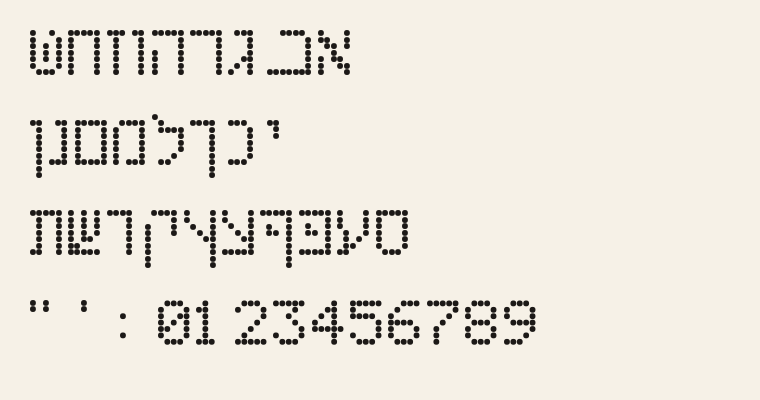
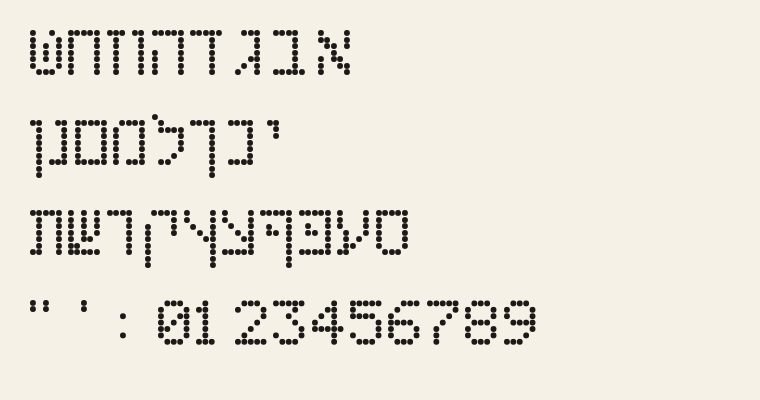
Put bet's heel on the side it belongs on
Measuring ב and כ in a text face settles what I had been guessing at: the
base of ב runs past the stem to the right by about a sixth of its width,
while כ's base stops flush with the stem. Both my earlier attempts widened
the base to the left instead, which is not the distinction a reader uses —
hence a ב that still read as a כ.

ד and ר carried the same mistake, separated by a left extension rather than
by the heel on ד's top bar; they now follow the same rule as ב and כ.

Claude-Session: https://claude.ai/code/session_012BU4uwjtfYtEZVJrZGMnXV

Changed region(s): [[0.2724, 0.06, 0.4237, 0.21], [0.3026, 0.39, 0.3329, 0.42], [0.3026, 0.3, 0.3329, 0.33]]

diff --git a/tools/font/build_font.py b/tools/font/build_font.py
@@ -27,13 +27,13 @@ g(0x05D0, """
 #..##
 #...#""")            # א
 g(0x05D1, """
-...####.
-.......#
-.......#
-.......#
-.......#
-.......#
-########""")         # ב — the base runs three dots past the top bar; that foot separates it from כ
+.####.
+....#.
+....#.
+....#.
+....#.
+....#.
+.#####""")           # ב — the base runs past the stem to the right; that heel separates it from כ
 g(0x05D2, """
 .###.
 ...#.
@@ -43,13 +43,13 @@ g(0x05D2, """
 .#.#.
 #..#.""")            # ג
 g(0x05D3, """
-#####
-....#
-....#
-....#
-....#
-....#
-....#""")            # ד
+.#####
+....#.
+....#.
+....#.
+....#.
+....#.
+....#.""")           # ד — same heel as ב, on the top bar; ר below is the flush version
 g(0x05D4, """
 #####
 ....#
@@ -109,13 +109,13 @@ g(0x05DA, """
 ....#
 ....#""")            # ך
 g(0x05DB, """
-.###.
+.####
 ....#
 ....#
 ....#
 ....#
 ....#
-.###.""")            # כ — both bars tucked in, so it reads as rounded, with no foot
+.####""")            # כ — bars flush with the stem, so the corner reads as rounded, with no heel
 g(0x05DC, """
 #....
 .#...

diff --git a/README.md b/README.md
@@ -21,6 +21,8 @@ weather/clock widgets.
 
 ## Font
 `res/font/hebdot.ttf` is a generated dot-matrix Hebrew font (letters, gershayim, digits, colon).
+ב and ד carry a heel: their bar runs one dot past the stem, which is what tells them apart from
+the flush כ and ר — measured off a text face, not guessed.
 Edit the bitmaps in `tools/font/build_font.py` and run it (`pip install fonttools`); it writes
 straight back to `res/font/hebdot.ttf`.
 
